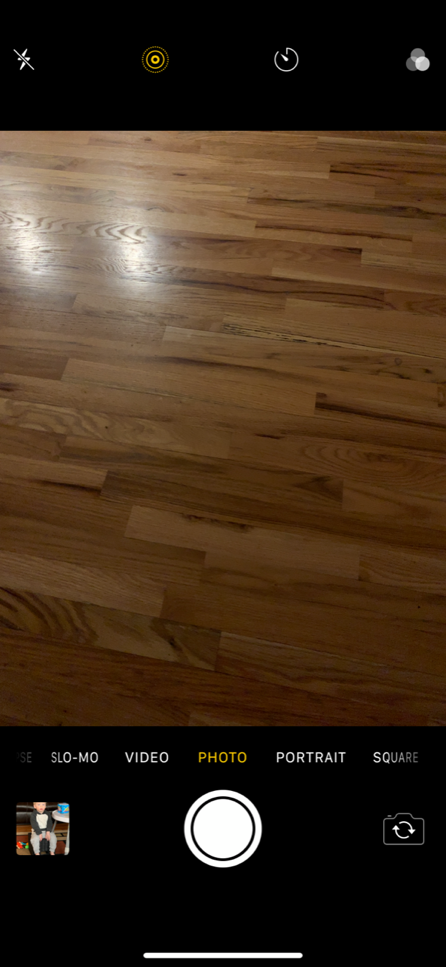
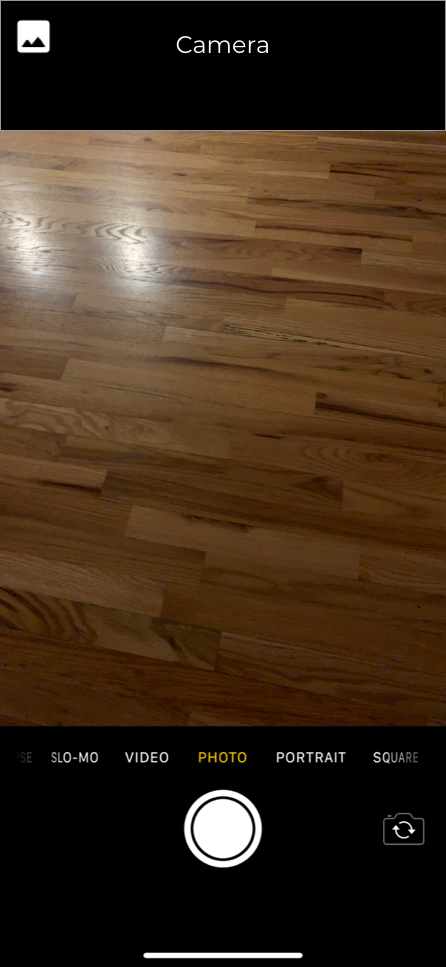
Add photos app page and change up preview picture

diff --git a/CameraPrototype/viewer.html b/CameraPrototype/viewer.html
@@ -18,9 +18,10 @@
 </center>
 
 <map name="mapname">
-    <area shape="rect" coords="15, 15, 50, 50" href="javascript:alert('Go to Photos App');" alt="Go to Photos App">
+    <area shape="rect" coords="15, 15, 50, 50" href="photos.html" alt="Go to Photos App">
     <area shape="rect" coords="400, 15, 435, 50" href="index.html" alt="Go to Camera">
     <area shape="rect" coords="400, 650, 435, 685" href="javascript:alert('Send to Trash');" alt="Send to Trash">
+    <area shape="rect" coords="5, 750, 440, 800" href="photos.html" alt="Go to Photos App">
     <area shape="rect" coords="15, 900, 50, 935" href="crop_rotate.html" alt="Go to Crop and Rotate Editor">
     <area shape="rect" coords="210, 900, 245, 935" href="filter.html" alt="Go to Filter Editor">
     <area shape="rect" coords="400, 900, 435, 935" href="javascript:alert('Go to Share Options');" alt="Go to Share">

diff --git a/CameraPrototype/photos.html b/CameraPrototype/photos.html
@@ -13,13 +13,13 @@
 
 <center>
   <div style="padding-top: 55px; width: 510px; height: 1020px; background-image: url('Phone.png'); background-size: cover;">
-    <img src="Preview.png" width="448" height="962" alt="" usemap="#mapname">
+    <img src="Photos.png" width="448" height="962" alt="" usemap="#mapname">
   </div>
 </center>
 
 <map name="mapname">
-    <area shape="rect" coords="180, 780, 270, 870" href="camera_preview.html" alt="Take picture">
-    <area shape="rect" coords="20, 550, 140, 700" href="viewer.html" alt="Go to Photo Viewer">
+    <area shape="rect" coords="400, 15, 435, 50" href="index.html" alt="Go to Camera">
+    <area shape="rect" coords="5, 100, 435, 860" href="viewer.html" alt="Go to Picture">
 </map>
 
 </body>

diff --git a/CameraPrototype/index.html b/CameraPrototype/index.html
@@ -18,8 +18,8 @@
 </center>
 
 <map name="mapname">
+    <area shape="rect" coords="15, 15, 50, 50" href="photos.html" alt="Go to Photos">
     <area shape="rect" coords="180, 780, 270, 870" href="camera_preview.html" alt="Take picture">
-    <area shape="rect" coords="15, 795, 70, 855" href="viewer.html" alt="Go to Photo Viewer">
 </map>
 
 </body>
